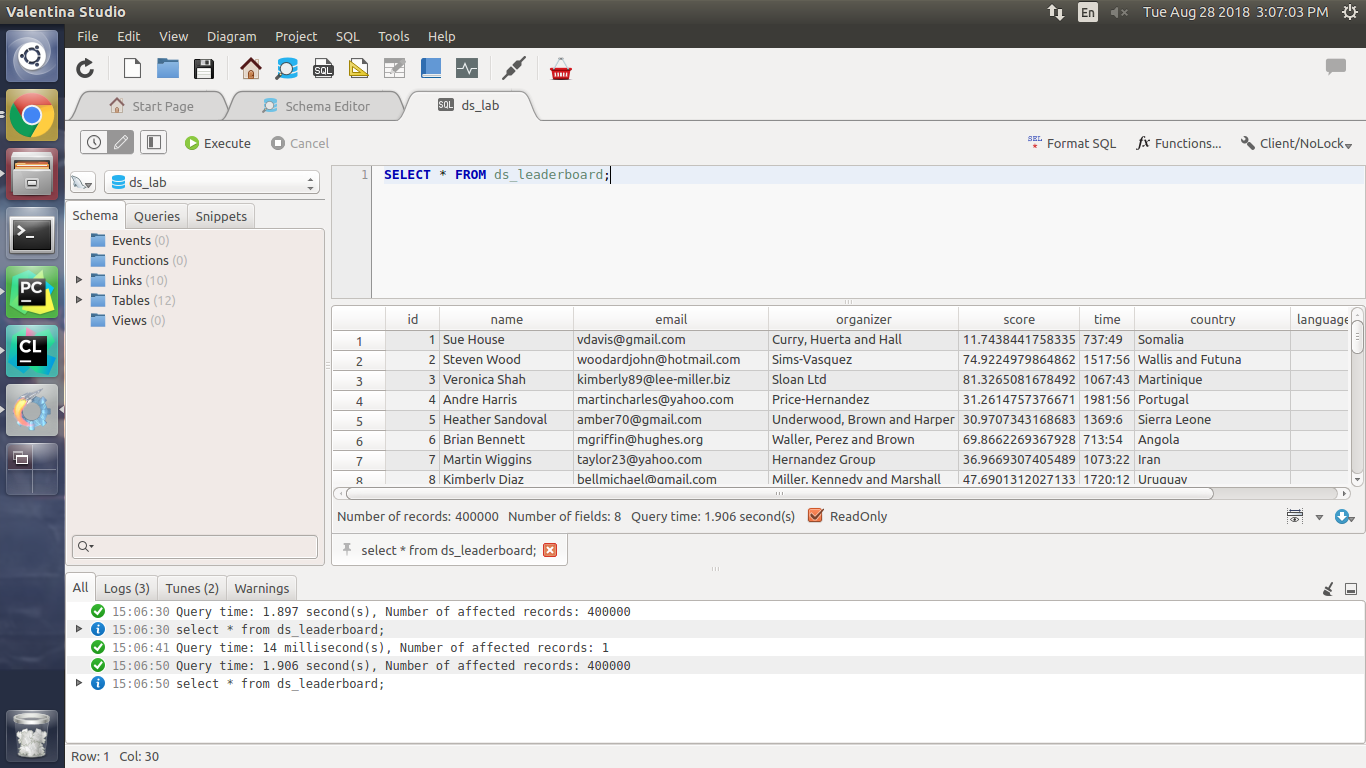
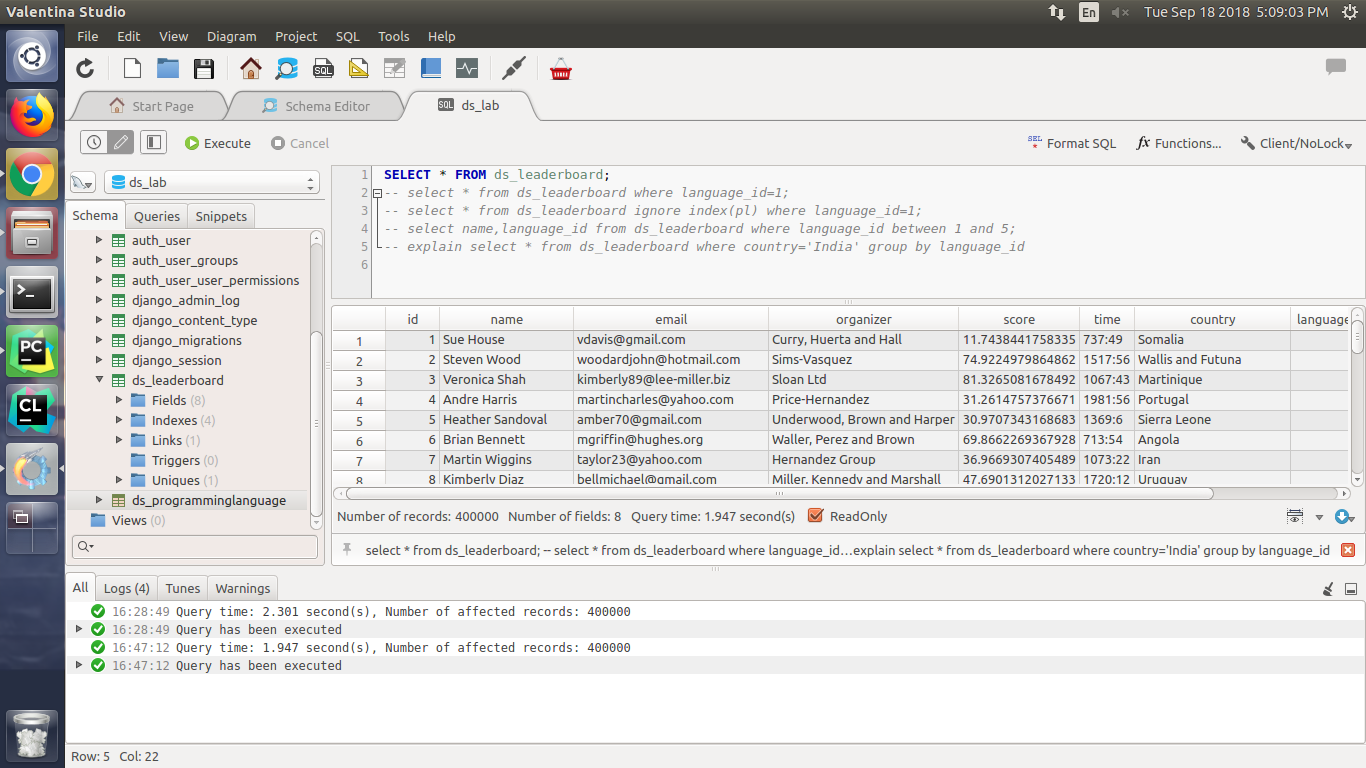
added document of query

diff --git a/btree_implementation/btree.py b/btree_implementation/btree.py
@@ -1,48 +1,121 @@
-class BtreeNode(object):
-    def __init__(self, order=4):
-        self.order = order
-        self.keys = []
-        self.children = []
+class InternalNode(object):
+    """
+    Class : B Tree Node
+    """
+    def __init__(self, degree=4):
+        """
+        initialize B tree node
+        :param degree: specify degree of btree  # default degree set to 4
+        """
+        self.degree = degree
+        self.max_data = self.degree-1  # number of keys per node
+        self.keys = []  # store keys/data values
+        self.children = []  # store child nodes (list of instances of BtreeNode); empty list if node is leaf node
         self.parent = None
 
-    @property
-    def enum_child(self):
-        return enumerate(self.children)
-
-    @property
-    def enum_keys(self):
-        return enumerate(self.keys)
-
-    @property
-    def is_root(self):
-        return not self.parent
+    def __repr__(self):
+        return " | ".join(map(str, self.keys))
 
     @property
     def is_leaf(self):
-        return False if self.children else True
+        return False
 
     @property
     def total_keys(self):
-        return len(self.children)
+        return len(self.keys)
 
     @property
     def is_balanced(self):
-        # check if node is balanced or not
-        if self.is_root:
-            return True if self.total_keys < self.order else False
+        return self.total_keys <= self.max_data
+
+
+class Btree(object):
+    def __init__(self, degree=4):
+        self.degree = degree
+        self.root = InternalNode(degree=degree)
+
+    def search_node(self, start_node, value):
+        """
+
+        :param start_node: get root or any non leaf node
+        :param value: value to be search
+        :return: most matching leaf node
+        """
+        if start_node.is_leaf:
+            return start_node
         else:
-            pass
+            for index in range(len(start_node.keys)-1):  # search for next possible node
+                if value < start_node.keys[index]:  # key is greater than value to be search
+                    return self.search_node(start_node.children[0], value)
+                elif start_node.keys[index] <= value < start_node.keys[index+1]:
+                    return self.search_node(start_node.children[index], value)
+                else:
+                    return self.search_node(start_node.children[index+1], value)
 
-    @staticmethod
-    def insert(node):
-        # TODO: implementation
-        if node.is_balanced:
-            pass
+    def search(self, value):
+        """
+        :param value: value to be search
+        :return: leaf node containing value else False
+        tuple of 3 values (status, msg, node)
+        0 - status of success or failure
+        1 - message status
+        2 - last explored node
+        """
+        status, msg, node = None, "", None
+        if not self.root.keys:
+            # initially no keys/data value - initialize root first
+            # msg += "No data in tree..!!"
+            status, msg, node = False, "No data in tree..!!", self.root
+        else:
+            node = self.search_node(self.root, value)
+            if node:
+                # if current node is leaf then check if value exist in current node or not
+                try:
+                    node.keys.index(value)
+                    status, msg, node = True, "Value found in root node", node
+                except ValueError:
+                    status, msg, node = False, "Value not found", self.root
+        return status, msg, node
 
-    def search(self):
-        # TODO: searching
-        pass
+    def split(self, node):
+        center_idx = len(node.keys) // 1  # center node index
+        median = node.keys[center_idx - 1]  # key to be shift to upper level
+        sibling1_node, sibling2_node = BtreeNode(), BtreeNode()
+        if not node.parent:
+            # split root node for overflow
+            node.keys = [median]
+            node.children = [sibling1_node, sibling2_node]
+            sibling1_node.parent = node
+            sibling2_node.parent = node
+            sibling1_node.keys, sibling2_node.keys = node.keys[:center_idx], node.keys[center_idx:]
+
+    def insert(self, value):
+        if not self.root.keys:
+            # initially no keys/data value - initialize root
+            self.root.keys.insert(0, value)
+            status, msg, node = True, "LOL!! it was first value!!", self.root
+        else:
+            status, msg, node = self.search(value)
+            for index in range(len(node.keys)):
+                if value < node.keys[index]:  # key is greater than value to be search
+                    node.keys.insert(index, value)
+                elif node.keys[index] <= value < node.keys[index + 1]:
+                    node.keys.insert(index, value)
+                else:
+                    node.keys.insert(index+1, value)
+            if node.is_balanced:
+                status, msg = True, "Balanced - No Split Require"
+            else:
+                msg = "splitting require"
+                self.split(node)
+        print(msg, node.keys)
+        return status, msg, node
 
 
 if __name__ == "__main__":
-    b = BtreeNode()
+    b = Btree()
+    b.insert(5)
+    b.insert(1)
+    b.insert(15)
+    print(b.root)
+    print(b.root)

diff --git a/practical_1.md b/practical_1.md
@@ -1,4 +1,95 @@
-select * from ds_leaderboard;
+Practical 1
+===========
+> a) Import Database, understand Query execution plan using SQL Yog  
+> b) Analyze impact of index , type of index on query performance
 
-![select_all]()
+a) Database Structure
+---------------------
+- Database: **MySQL**  
+- Total data rows in table ds_leaderboard: **4,00,000**
+- PC Configuration  
+    : Intel® Core™ i3-4130 CPU @ 3.40GHz × 4  
+    : ~4 GB RAM
+
+**ds_leaderboard**
+
+    CREATE TABLE `ds_leaderboard` ( 
+        `id` Int( 11 ) AUTO_INCREMENT NOT NULL,
+        `name` VarChar( 64 ) CHARACTER SET utf8 COLLATE utf8_general_ci NOT NULL,
+        `email` VarChar( 254 ) CHARACTER SET utf8 COLLATE utf8_general_ci NOT NULL,
+        `organizer` VarChar( 256 ) CHARACTER SET utf8 COLLATE utf8_general_ci NOT NULL,
+        `score` Double( 22, 0 ) NOT NULL,
+        `time` VarChar( 16 ) CHARACTER SET utf8 COLLATE utf8_general_ci NOT NULL,
+        `country` VarChar( 128 ) CHARACTER SET utf8 COLLATE utf8_general_ci NOT NULL,
+        `language_id` Int( 11 ) NULL,
+        PRIMARY KEY ( `id` ) )
+    CHARACTER SET = utf8
+    COLLATE = utf8_general_ci
+    ENGINE = InnoDB
+    AUTO_INCREMENT = 400001;
+-- -------------------------------------------------------------
+**ds_programminglanguage**
+
+    CREATE TABLE `ds_programminglanguage` ( 
+        `id` Int( 11 ) AUTO_INCREMENT NOT NULL,
+        `name` VarChar( 32 ) CHARACTER SET utf8 COLLATE utf8_general_ci NOT NULL,
+        `version` VarChar( 16 ) CHARACTER SET utf8 COLLATE utf8_general_ci NULL,
+        `release` Date NULL,
+        PRIMARY KEY ( `id` ) )
+    CHARACTER SET = utf8
+    COLLATE = utf8_general_ci
+    ENGINE = InnoDB
+    AUTO_INCREMENT = 13;
+-- -------------------------------------------------------------
+
+b) Impact of index
+------------------
+### Query
+
+    select * from ds_leaderboard;
+Query time: 1.947 s  
+Index used : No index to be used because we are loading all data of all attribute(column)
+
+### Query
+
+    select * from ds_leaderboard where language_id=1;
+Query time: 235 ms  
+No. of records: 33243  
+Index used : index on attribute language_id  
+
+### Query
+
+    select * from ds_leaderboard ignore index(pl) where language_id=1;
+Query time: 287 ms  
+No. of records: 33243  
+Index used : (No index) ignoring index on attribute language_id  
+
+### Query
+
+    select name,language_id from ds_leaderboard where language_id between 1 and 5;
+Query time: 226 ms  
+No. of records: 166490  
+Index used : (No index used) (possible key on language_id)  
+
+
+### Query
+
+    select name,language_id from ds_leaderboard use index(pl) where language_id between 1 and 5;
+
+|  |  |
+|---|---|
+| Query time | 206 ms |  
+| No. of records | 166490 |  
+| Index used | forced to use index on language_id |  
+
+
+### Query
+
+    select name,language_id from ds_leaderboard use index(pl) where language_id between 1 and 5;
+
+|  |  |
+|---|---|
+| Query time | 206 ms |  
+| No. of records | 166490 |  
+| Index used | forced to use index on language_id |  
 
